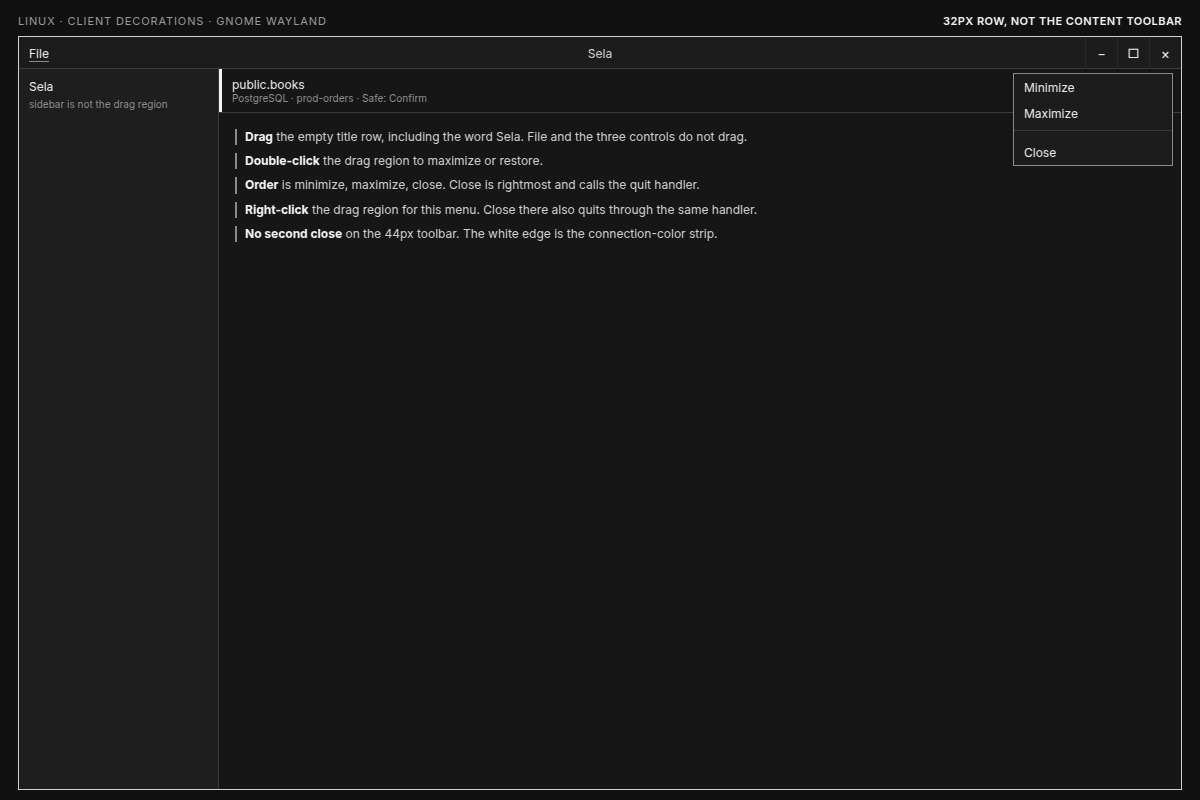
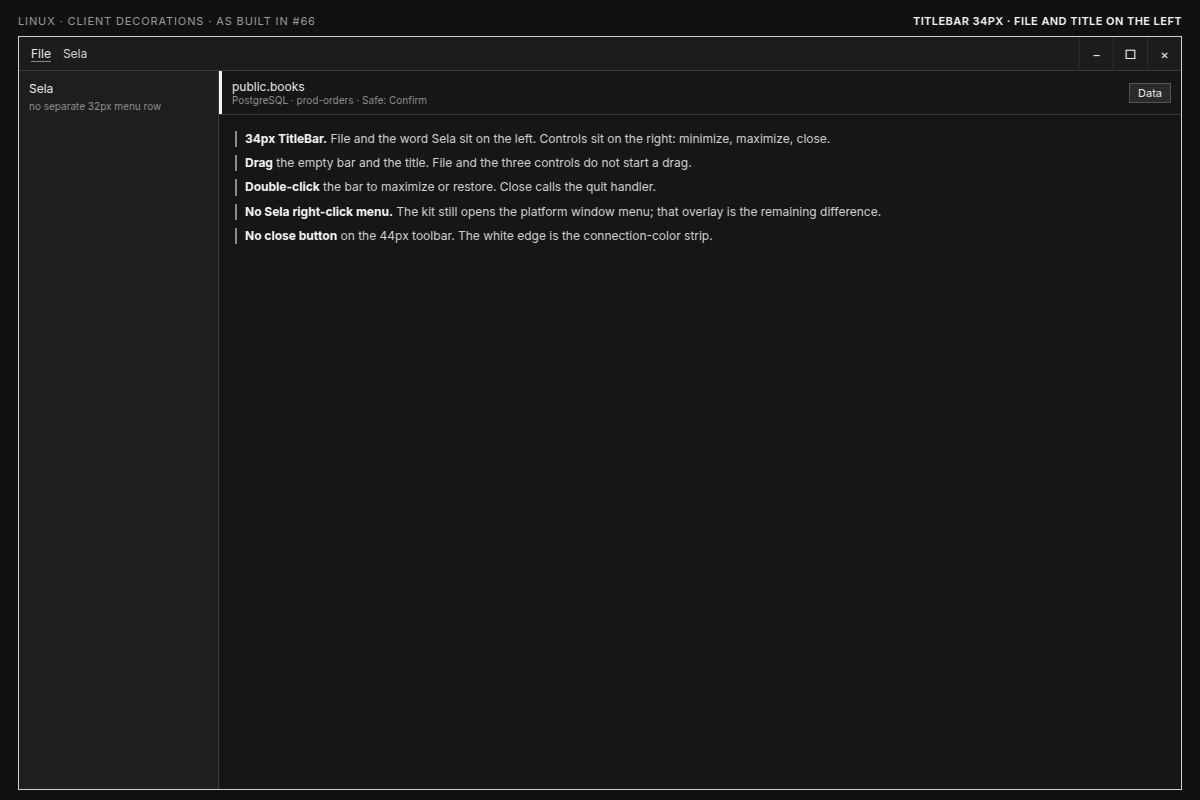
Fold the PM decisions into the v0.2 UX specs.
Editing is primary-key only, Esc only cancels the open cell, and the Linux title bar matches the TitleBar #66 already builds.

diff --git a/docs/design/ux/images/titlebar-linux.html b/docs/design/ux/images/titlebar-linux.html
@@ -18,19 +18,19 @@ body {
   background: #161616; border: 1px solid #d0d0d0;
 }
 .tbar {
-  height: 32px; flex: none; display: grid; grid-template-columns: 1fr auto 1fr;
-  align-items: center; background: #1c1c1c; border-bottom: 1px solid #3a3a3a;
-  position: relative;
+  height: 34px; flex: none; display: flex; align-items: stretch;
+  background: #1c1c1c; border-bottom: 1px solid #3a3a3a;
+  padding-left: 12px;
 }
-.file { justify-self: start; padding-left: 10px; font-size: 12px; }
+.lead { display: flex; align-items: center; gap: 12px; flex: 1; min-width: 0; }
+.file { font-size: 12px; }
 .file u { text-decoration: none; border-bottom: 1px solid #888; }
 .title { font-size: 12px; color: #d0d0d0; }
-.ctrls { justify-self: end; display: flex; height: 32px; }
+.ctrls { display: flex; height: 34px; flex: none; }
 .ctrls span {
-  width: 32px; display: flex; align-items: center; justify-content: center;
+  width: 34px; display: flex; align-items: center; justify-content: center;
   font-size: 13px; color: #e8e8e8; border-left: 1px solid #2a2a2a;
 }
-.ctrls span.close { font-size: 14px; }
 .body { flex: 1; min-height: 0; display: flex; }
 .side { width: 200px; flex: none; background: #1e1e1e; border-right: 1px solid #3a3a3a; padding: 10px; font-size: 12px; }
 .side .dim { color: #8d8d8d; font-size: 10px; margin-top: 4px; }
@@ -47,31 +47,21 @@ body {
 .callouts { flex: 1; display: flex; flex-direction: column; gap: 8px; padding: 16px; font-size: 12px; color: #cfcfcf; }
 .callouts div { border-left: 2px solid #8a8a8a; padding-left: 8px; line-height: 1.35; }
 .callouts b { color: #f2f2f2; }
-.menu {
-  position: absolute; right: 8px; top: 36px; width: 160px; background: #1c1c1c; border: 1px solid #8a8a8a;
-  font-size: 12px; z-index: 2;
-}
-.menu div { height: 26px; display: flex; align-items: center; padding: 0 10px; }
-.menu .sep { height: 9px; border-top: 1px solid #3a3a3a; margin-top: 4px; }
 </style></head>
 <body>
-  <div class="kicker"><span>Linux · client decorations · GNOME Wayland</span><b>32px row, not the content toolbar</b></div>
+  <div class="kicker"><span>Linux · client decorations · as built in #66</span><b>TitleBar 34px · File and title on the left</b></div>
   <div class="win">
     <div class="tbar">
-      <div class="file"><u>File</u></div>
-      <div class="title">Sela</div>
-      <div class="ctrls"><span>−</span><span>□</span><span class="close">×</span></div>
-      <div class="menu">
-        <div>Minimize</div>
-        <div>Maximize</div>
-        <div class="sep"></div>
-        <div>Close</div>
+      <div class="lead">
+        <div class="file"><u>File</u></div>
+        <div class="title">Sela</div>
       </div>
+      <div class="ctrls"><span>−</span><span>□</span><span>×</span></div>
     </div>
     <div class="body">
       <div class="side">
         <div>Sela</div>
-        <div class="dim">sidebar is not the drag region</div>
+        <div class="dim">no separate 32px menu row</div>
       </div>
       <div class="main">
         <div class="toolbar">
@@ -85,11 +75,11 @@ body {
           <span class="btn">Data</span>
         </div>
         <div class="callouts">
-          <div><b>Drag</b> the empty title row, including the word Sela. File and the three controls do not drag.</div>
-          <div><b>Double-click</b> the drag region to maximize or restore.</div>
-          <div><b>Order</b> is minimize, maximize, close. Close is rightmost and calls the quit handler.</div>
-          <div><b>Right-click</b> the drag region for this menu. Close there also quits through the same handler.</div>
-          <div><b>No second close</b> on the 44px toolbar. The white edge is the connection-color strip.</div>
+          <div><b>34px TitleBar.</b> File and the word Sela sit on the left. Controls sit on the right: minimize, maximize, close.</div>
+          <div><b>Drag</b> the empty bar and the title. File and the three controls do not start a drag.</div>
+          <div><b>Double-click</b> the bar to maximize or restore. Close calls the quit handler.</div>
+          <div><b>No Sela right-click menu.</b> The kit still opens the platform window menu; that overlay is the remaining difference.</div>
+          <div><b>No close button</b> on the 44px toolbar. The white edge is the connection-color strip.</div>
         </div>
       </div>
     </div>

diff --git a/docs/design/ux/01-main-window.md b/docs/design/ux/01-main-window.md
@@ -8,11 +8,12 @@ This spec matches the window in `crates/sela-app/src/ui/workspace/` and the shor
 
 ## Regions
 
-Default window size is 1180×760, minimum 880×560 (`ui/mod.rs`). Where the platform draws a server-side title bar, it says “Sela” and the workspace does not draw one. On client-side decorations the workspace draws the bar in [Client-side title bar](#client-side-title-bar).
+Default window size is 1180×760, minimum 880×560 (`ui/mod.rs`). Where the platform draws a server-side title bar, it says “Sela” and the workspace does not draw one. On client-side decorations the workspace draws gpui-component’s `TitleBar`. See [Client-side title bar](#client-side-title-bar).
 
 | Region | Size | Where it is set today | Resize |
 | --- | --- | --- | --- |
-| Menu / title row | 32px, Linux and Windows | `workspace/mod.rs` `menu_bar_row`, `h(px(32.))` | Fixed. Window controls only when decorations are client-side. See [Client-side title bar](#client-side-title-bar). |
+| SSD menu row | 32px, Linux and Windows, server decorations only | `workspace/mod.rs` `menu_bar_row`, `h(px(32.))` | Fixed. File menu only. Not drawn when the client title bar is shown. |
+| Client title bar | 34px | gpui-component `TitleBar` (`TITLE_BAR_HEIGHT`) | Fixed. Only when `Decorations::Client`. It replaces the 32px menu row. See [Client-side title bar](#client-side-title-bar). |
 | Sidebar | 292px default | `sidebar.rs`, `w(px(292.))`, `flex_shrink_0` | Drag the right edge. Min 200, max 480. Double-click returns to 292. |
 | Tab bar | 28px | `tabs.rs` `TabBar`, no explicit height | Fixed. |
 | Toolbar | 44px | `content.rs` `toolbar`, `h(px(44.))` | Fixed. Do not grow it. A later density pass may take it to 32px. Not part of M1-3. |
@@ -195,13 +196,13 @@ Filter and editor chords are in the other specs. They must be context-scoped so 
 
 ## Quit and window lifecycle
 
-The window always has a close control. Ask for server-side decorations (`WindowDecorations::Server` in `ui/mod.rs`). When `window.window_decorations()` is server-side, the platform draws the close control and the workspace does not. When it is client-side, the workspace draws the [client-side title bar](#client-side-title-bar). That bar's close control is the one close control. Do not also put a close button on the 44px content toolbar or on the empty-state strip. The close control shipped on that toolbar in #31 is replaced by the title bar, not kept beside it.
+The window always has a close control. Ask for server-side decorations (`WindowDecorations::Server` in `ui/mod.rs`). When `window.window_decorations()` is server-side, the platform draws the close control and the workspace does not. When it is client-side, the workspace draws the [client-side title bar](#client-side-title-bar). That bar's close control is the one close control. Do not put a close button on the 44px content toolbar or on the empty-state strip. #66 removes the toolbar × and `client_close_bar`.
 
-The close control is not a Quit button. Do not put the word Quit on the title bar or the toolbar. It calls `Workspace::request_quit`, the same handler as `secondary-q`.
+The close control is not a Quit button. Do not put the word Quit on the title bar or the toolbar. On Linux it calls `Workspace::request_quit`, the same handler as `secondary-q`.
 
 `secondary-q` quits. That is Command+Q on macOS and Control+Q on Linux and Windows. The binding is global: it works from the SQL editor and from dialogs. On Windows, Alt+F4 is the OS close and uses the same quit path. Register it once, with `bind_secondary`, not as a second `cmd-q` / `ctrl-q` pair.
 
-On macOS the app menu item is `Quit Sela`, last, after a separator. On Linux and Windows the File menu item is `Quit`, last, after a separator, with a Ctrl+Q hint. GPUI does not draw a native OS menu bar on Linux. The in-window File menu in the 32px row is the one those sessions show (`menu_bar_row` in `workspace/mod.rs`). On client-side decorations that same row is the title bar below.
+On macOS the app menu item is `Quit Sela`, last, after a separator. On Linux and Windows the File menu item is `Quit`, last, after a separator, with a Ctrl+Q hint. GPUI does not draw a native OS menu bar on Linux. Under server-side decorations the in-window File menu is the 32px `menu_bar_row`. Under client-side decorations that row is not drawn; the File menu is a child of `TitleBar`.
 
 Closing the last window quits on Linux and Windows. On macOS the app stays running after the last window closes, and Command+Q quits. That is gpui-pre 0.3.12 `QuitMode::Default` (`Explicit` on macOS, `LastWindowClosed` elsewhere). `ui/mod.rs` does not call `set_quit_mode`. Keep that default. The shortcut, the menu item, Alt+F4, and the close control go through one quit handler. Closing the window on macOS is not that handler.
 
@@ -223,36 +224,35 @@ M2-5, with the dialog fields in [05-connection-dialog.md](./05-connection-dialog
 
 Groups are one level. The sidebar keeps file order. Connections with an empty group stay a flat list at the top, in the order they have today. Each non-empty group is a parent row after that, in the order its first member appears in the file. Members stay in file order under the parent. A group row shows the group name and a disclosure triangle. It is not a connection: clicking it expands or collapses, and it does not connect. Empty groups are not shown. There is no nested group.
 
-Duplicate is a ghost `xsmall` button between Edit and Delete, enabled when Edit is enabled. No shortcut (`secondary-d` is duplicate-row on the grid). It saves a new connection immediately and does not connect and does not open the dialog. The name is `{name} copy`, then `{name} copy 2`, and so on. The new id is new. Engine, host, port, user, database, file, TLS, `record_history`, color, label, group, and safe mode are copied. When the source password was read from the keychain, write that secret under the new id. When it was not, the copy has no password. Status: `Duplicated {name}.`
+Duplicate is a ghost `xsmall` button between Edit and Delete, enabled when Edit is enabled. No shortcut (`secondary-d` is duplicate-row on the grid). It saves a new connection immediately and does not connect and does not open the dialog. The name is `{name} copy`, then `{name} copy 2`, and so on. The new id is new. Engine, host, port, user, database, file, TLS, `record_history`, color, label, group, and safe mode are copied. The password is not copied, and no keychain item is written for the new id. Status: `Duplicated {name}. Type the password to connect.`
 
 ## Client-side title bar
 
-Linux only, and only when `window.window_decorations()` is client-side. That is the GNOME Wayland case in #58: the window asks for server decorations, GNOME does not draw them, and GPUI reports client decorations. Windows, macOS, X11, and any compositor that actually draws server decorations stay as they are. Do not render these controls there. The 32px row on Windows with server decorations stays a menu bar: File on the left, no drag-to-move, no window buttons.
+This is what #66 builds. Show it only when `window.window_decorations()` is `Decorations::Client`, which is `should_show_client_title_bar` in `ui/decorations.rs`. The window still asks for `WindowDecorations::Server`. Windows, macOS, X11, and any compositor that draws server decorations stay on the native frame. On those Linux and Windows sessions the 32px `menu_bar_row` stays a File menu and is not a title bar.
 
-![Linux client title bar: File, the title, minimize, maximize, close](images/titlebar-linux.png)
+On client decorations, do not draw that 32px row. `client_title_bar` renders gpui-component `TitleBar` instead, full window width, above the sidebar and the content column. Height is the kit constant, 34px (`TITLE_BAR_HEIGHT`). It is not merged into the 44px content toolbar, and it is not a second strip under the menu row. The content toolbar is table actions and is absent when there are no tabs. The title bar is still there in that empty state, which is why the empty column has no close strip.
 
-The row is the existing `menu_bar_row`, 32px, full window width, above the sidebar and the content column. Do not merge it into the 44px content toolbar, and do not add a second strip. The content toolbar is table actions and is absent when there are no tabs. The title bar has to exist in that empty state too, which is why the empty column no longer grows its own close strip.
+![Linux client title bar: File and Sela on the left, minimize, maximize, close on the right](images/titlebar-linux.png)
 
-| Piece | Placement |
+| Piece | As built |
 | --- | --- |
-| File menu | Left, as today. |
-| Title | `Sela`, centered in the row. `text.secondary`. |
-| Window controls | Right. Order is minimize, then maximize, then close. Close is the rightmost control. This is the GNOME default (`:minimize,maximize,close`). |
-| Each control | 32×32 hit target, ghost, icon only. Tooltips `Minimize`, `Maximize`, `Restore`, `Close`. |
+| File menu | A child of `TitleBar`, on the leading side, Linux and Windows only (`AppMenuBar`). macOS keeps the native app menu and passes no menu child. |
+| Title | The text `Sela`, the next child, in the same leading group. Not centered. |
+| Window controls | Kit `WindowControls`, on the trailing side. Order is minimize, then maximize or restore, then close. Close is the outermost control. Each hit target is 34×34. |
+| Drag | The bar is `WindowControlArea::Drag`. A left-button move calls `start_window_move` unless the press called `prevent_default`. The File menu and the window controls do that, so clicking them does not drag. The title text does drag. |
+| Double-click | On Linux, double-click on the bar calls `zoom_window` (maximize or restore). |
 
-Maximize shows `Restore` while the window is maximized. The icons are a minus, a square, and `×`. None of them is labeled Quit.
+Minimize calls `minimize_window`. Maximize and restore call `zoom_window`. None of the controls is labeled Quit.
 
-**Drag.** Empty space in the row, including the title text, moves the window (`start_window_move`) after a few pixels of left-button drag. A left click that does not drag only focuses the window. These are not draggable: the File menu, an open menu, and the three window controls. A right-click does not start a move.
+**Close.** `TitleBar::on_close_window` is set to `Workspace::request_quit`. In gpui-component 0.10 that callback is stored only on Linux. A running query still confirms, as in the quit section. Minimize and maximize do not quit.
 
-**Double-click.** Double-click on the drag region toggles maximize and restore (`titlebar_double_click` or the kit equivalent). Double-click on the File menu or on a window control does not.
+**Which buttons appear.** The order does not follow GNOME `button-layout`. Close is always drawn. Minimize and maximize are drawn only when `window.window_controls()` says the compositor supports them, so a tiling session can omit one. When all three are shown, the order is the GNOME default: minimize, maximize, close, with close outermost.
 
-**Right-click.** On the drag region, a menu: `Minimize`, `Maximize` or `Restore`, a separator, `Close`. `Close` calls `request_quit`. The File menu and the window buttons do not open this menu. Ship the menu with the title bar. If a right-click cannot be separated from the drag gesture, omit the menu and do not make the buttons start a drag. That omission is the only fallback.
+**Edges.** Resize and the client-side shadow or border are not Sela code. gpui-component's `WindowBorder` already wraps the root: under `Decorations::Client` it calls `set_client_inset` and `start_window_resize`. Under server decorations that wrap is a no-op. Do not add a second border.
 
-**Close.** The close control and the menu's `Close` call `Workspace::request_quit`. They do not call `remove_window` directly. Minimize and maximize do not quit. A running query still confirms, as in the quit section.
+**Right-click.** There is no Sela menu on this bar. Do not add Minimize / Maximize / Close as a context menu.
 
-**Edges.** Client decorations keep edge resize. Draw a 1px `border.divider` around the window content so the edge is visible. Do not add a drop shadow on top of whatever the compositor already draws.
-
-gpui-component `TitleBar` is the right starting point when it can host the File menu, the drag region, and a close control that calls `request_quit`. If its close button only removes the window, do not use that button. Composing the existing 32px row is the fallback, and it is the layout either way.
+Remaining difference from #66: the kit `TitleBar` still covers the drag region with a right-click handler that calls `window.show_window_menu`. That is the platform window menu, not a menu this spec adds. Product decision is no title-bar right-click menu. Taking that overlay out is a follow-up on top of #66. Until then, a right-click on the drag region can still open the platform menu.
 
 ## Status text
 
@@ -287,8 +287,8 @@ gpui-component `TitleBar` is the right starting point when it can host the File 
 - Banner: keep `error_banner`. Add `max_h` around 60px and vertical scroll. Append SQLSTATE from `DbError` instead of only `Display`, which is the message alone (`error.rs`).
 - Load more footer: a sibling under the `DataTable` inside `results_area`, visible only when `GridSource::Sql` and `truncated`. It is not a row in `ResultWindow`.
 - Do not turn on `TableState::sortable(true)`. Header sort is specified in the filter spec and is server-side.
-- Quit goes through one handler (`Workspace::request_quit`), as in [Quit and window lifecycle](#quit-and-window-lifecycle). Cancel queries synchronously, then `cx.quit()`; pool close and history flush run from `on_app_quit` within `SHUTDOWN_TIMEOUT` (200 ms). The client title bar's close control uses that handler. Remove `client_close_bar` and the toolbar `window-close` button once the title bar is the close control.
-- Decide client decorations from `window.window_decorations()`, not from the `WindowDecorations::Server` request. The request stays.
+- Quit goes through one handler (`Workspace::request_quit`), as in [Quit and window lifecycle](#quit-and-window-lifecycle). Cancel queries synchronously, then `cx.quit()`; pool close and history flush run from `on_app_quit` within `SHUTDOWN_TIMEOUT` (200 ms). #66 wires `TitleBar::on_close_window` to that handler and removes `client_close_bar` and the toolbar `window-close` button.
+- Show the client title bar from `should_show_client_title_bar(window.window_decorations())`, not from the `WindowDecorations::Server` request. The request stays.
 
 ## Decisions
 
@@ -296,11 +296,9 @@ gpui-component `TitleBar` is the right starting point when it can host the File 
 2. **Keep both error surfaces.** The banner always shows the full message. The gutter marker and underline are drawn only when the engine reports a position.
 3. **M1-9 is done** (#13, `pg_decode.rs`). Text fallbacks are normal cells, as in the decode-error section. Do not edit `roadmap.md` for that status here. Engineering updates the roadmap, PRD, and SPECS status rows in the M1-3 pull request.
 4. **Quit cleanup uses GPUI’s `SHUTDOWN_TIMEOUT` (200 ms)** via `on_app_quit`, not a separate ~2 s wait before `cx.quit()`.
-5. **Client decorations use the 32px menu row as the title bar.** Window controls are not merged into the 44px toolbar. Close goes through `request_quit`.
+5. **Client decorations use gpui-component `TitleBar` (34px), as in #66.** The 32px menu row is the server-decoration File menu only. Close goes through `request_quit`. Button order is the kit's: minimize, maximize, close, close outermost. Do not read GNOME `button-layout`.
+6. **No Sela right-click menu on the title bar.** The kit still calls `show_window_menu` on right-click. That overlay is the remaining difference, noted in [Client-side title bar](#client-side-title-bar).
 
 ## Open questions
 
-None open for quit. See [Quit and window lifecycle](#quit-and-window-lifecycle) for the shipped confirm.
-
-1. The title-bar control order is fixed: minimize, maximize, close, on the right. The alternative is to read GNOME `org.gnome.desktop.wm.preferences button-layout` and follow that, including a left-side layout. This spec does not read the setting.
-2. The right-click menu ships in the same work as the title bar, and is omitted only when the gesture cannot be split from dragging. Confirm that omission is acceptable rather than blocking the bar.
+None. The quit confirm is the shipped one in [Quit and window lifecycle](#quit-and-window-lifecycle).

diff --git a/docs/design/ux/07-grid-editing.md b/docs/design/ux/07-grid-editing.md
@@ -10,15 +10,15 @@ Editing is an overlay on the table Data grid. It does not write to the database 
 
 | Surface | Editing |
 | --- | --- |
-| Table Data, one primary key | Yes. |
-| Table Data, no primary key, exactly one unique NOT NULL constraint | Yes. That constraint is the row key. |
-| Table Data, no primary key and no such constraint | Read-only. See [Read-only](#read-only). |
-| Table Data, no primary key and two or more unique NOT NULL constraints | Read-only. Sela does not guess which constraint is the key. |
+| Table Data, with a primary key | Yes. A composite primary key is one key. Every key column is part of the later `WHERE`. |
+| Table Data, no primary key | Read-only. See [Read-only](#read-only). A unique NOT NULL constraint is not a key in v0.2. |
 | View | Read-only. |
 | Structure pane | No overlay. |
 | SQL result tab | Read-only. `Enter` does not open an editor. |
 
-The key is composite when the primary key (or the single unique constraint) has several columns. Every key column is part of the later `WHERE`. Generated and identity columns are not editable: `serial`, `IDENTITY`, `GENERATED`, `AUTO_INCREMENT`, and a SQLite `INTEGER PRIMARY KEY` rowid alias. They stay on screen. The tooltip is `Filled on commit.`
+v0.2 matches the core in #65: `ChangeSet` rejects a table with no primary key (`ChangeError::NoPrimaryKey`). Using a unique NOT NULL constraint as the row key is an M2 follow-up on the [roadmap backlog](../roadmap.md).
+
+Generated and identity columns are not editable: `serial`, `IDENTITY`, `GENERATED`, `AUTO_INCREMENT`, and a SQLite `INTEGER PRIMARY KEY` rowid alias. They stay on screen. The tooltip is `Filled on commit.`
 
 A decode-error cell and a `ColumnKind::Bytes` cell are not editable even on an editable table. `Enter` leaves them alone. Status: `This cell is read-only.` Blob status adds `Use SQL to change it.` `ColumnKind::Other` (arrays and other text fallbacks) is read-only the same way. `Space` still opens inspect, as in [01-main-window.md](./01-main-window.md).
 
@@ -80,7 +80,7 @@ These keys are for the open editor. They do not commit to the database. The chan
 | `secondary-z` | Undo typing inside the field. | Same. |
 | `secondary-shift-z` | Left to the field. On macOS that is redo. It does not discard. | Same. |
 
-`Escape` does not discard the pending set. Discard is `secondary-shift-z` when the editor is closed. US-05 names Esc as discard; the split is recorded under [Open questions](#open-questions). The default in this spec is the split above, so Esc can keep closing inspect, menus, and the quit dialog.
+`Escape` does not discard the pending set. Discard is `secondary-shift-z` when the editor is closed, and the Discard button on the pending bar. Both confirm. US-05 matches this split.
 
 Accepting a value equal to the server value removes that cell from the row's change. The triangle goes away. If the row has no remaining changes, the row mark goes away too.
 
@@ -119,8 +119,7 @@ The Data pane shows the first reason that applies:
 | --- | --- |
 | Safe mode is Read-only | `Read-only · safe mode on this connection.` |
 | View | `Read-only · views are read-only.` |
-| No usable key | `Read-only · no primary key or unique NOT NULL column.` |
-| Several unique keys and no primary key | `Read-only · more than one unique key and no primary key.` |
+| No primary key | `Read-only · this table has no primary key.` |
 
 `Enter`, double-click, Insert, Duplicate, and Delete do nothing. Status repeats the same sentence. `Space` still inspects. Filter and sort still run.
 
@@ -166,18 +165,17 @@ Grid focus context, editor closed. Full chords are also in [README.md](./README.
 - `Enter` to edit is the grid context. The cell editor's context does not include `RunQuery`.
 - The gutter is a 16px sticky column painted with the delegate, excluded from copy and from horizontal scroll of the data columns. If `DataTable` cannot pin it, paint the glyph in the first cell's leading padding and still exclude it from `cell_text`.
 - Generated-column detection uses the structure default and type name. The exact `INSERT` omission list belongs to M2-2. This file only decides which cells look unset and which ones block Commit.
-- A table with a primary key uses that key even if unique constraints also exist.
+- Editing requires a primary key, the same rule as `ChangeSet::try_new` in #65. Do not treat a unique constraint as a key.
 
 ## Decisions
 
-1. A single unique NOT NULL constraint is a key when there is no primary key. Two of them, and no primary key, stays read-only. US-05 says "no PK"; the SPECS `RowKey` is the wider rule, with the ambiguous case refused.
-2. `Escape` cancels the open cell editor or popover only. It does not discard the `ChangeSet`.
-3. Inserted and duplicated rows are marked on the row (wash and gutter). Per-cell triangles are only for edits to a row that already exists on the server.
-4. Deleting an inserted row drops it. Deleting a server row keeps it visible and strikethrough until Commit or Discard.
-5. NULL is an explicit control. An empty text field is `''`.
+1. v0.2 edits only a table with a primary key. No primary key is read-only, and the strip says why. A unique NOT NULL key is backlog ([roadmap.md](../roadmap.md)).
+2. `Escape` cancels the open cell editor or popover only. It does not discard the `ChangeSet`. Discard is `secondary-shift-z` (editor closed) and the Discard button, and it confirms.
+3. Duplicate leaves primary-key cells unset so an identity column can fill them. A non-generated key stays empty until the user types it. Commit stays disabled until those cells are set.
+4. Inserted and duplicated rows are marked on the row (wash and gutter). Per-cell triangles are only for edits to a row that already exists on the server.
+5. Deleting an inserted row drops it. Deleting a server row keeps it visible and strikethrough until Commit or Discard.
+6. NULL is an explicit control. An empty text field is `''`.
 
 ## Open questions
 
-1. Confirm decision 1. The alternative is primary key only, which matches the US-05 wording and would make unique-only tables read-only.
-2. Confirm decision 2. The alternative is US-05 read literally: `Escape` with the editor closed discards the whole pending set. That fights inspect, menus, and the quit dialog, which already use `Escape` to dismiss.
-3. Duplicate leaves primary-key cells unset so an identity column can fill them. Confirm that a non-generated key the user must retype is the right default, rather than copying the key and letting the database reject the duplicate.
+None.

diff --git a/docs/design/ux/08-preview-commit.md b/docs/design/ux/08-preview-commit.md
@@ -43,7 +43,7 @@ The footer repeats `Discard` (ghost) and `Commit` (primary). They do the same th
 
 ## Commit
 
-`Commit` or `secondary-s` runs the pending statements in one transaction: `BEGIN`, deletes, updates, inserts, `COMMIT`. Identifiers are quoted. Values are bound. The `WHERE` is the key columns only.
+`Commit` or `secondary-s` runs the pending statements in one transaction: `BEGIN`, deletes, updates, inserts, `COMMIT`. Identifiers are quoted. Values are bound. The `WHERE` is the primary-key columns only.
 
 `secondary-s` while the cell editor is open accepts the cell first, then commits, except when that accept fails validation: the editor stays open and nothing is sent. `secondary-s` in the SQL editor does nothing. It is not a document save.
 
@@ -117,10 +117,10 @@ Until this milestone ships, quit still confirms only while a query is running. T
 
 1. The pending count lives on the 26px bar, not a second time on the status bar.
 2. The sheet shows placeholders plus bound values. Execution stays on the bound path.
-3. `WHERE` is the key columns only. Old values of other columns are not part of the predicate. See [Open questions](#open-questions).
+3. `WHERE` is the primary-key columns only, matching #65. Old values of other columns are not part of the predicate. An optimistic check on those values is [#68](https://github.com/nesso99/sela/issues/68), not v0.2.
 4. A failed commit keeps every pending edit and does not reload.
-5. Discard, close-tab, and quit-with-edits reuse the quit dialog's button rules. Cancel is primary. The destructive button is not.
+5. Discard, close-tab, and quit-with-edits reuse the quit dialog's button rules. Cancel is primary. The destructive button is not. Discard is both `secondary-shift-z` and the Discard button.
 
 ## Open questions
 
-1. SPECS calls an optimistic `WHERE` on the old non-key values optional. This spec leaves it out of v0.2. Confirm that a concurrent edit to a column the user did not touch is not a conflict.
+None.

diff --git a/docs/design/ux/06-theme-tokens.md b/docs/design/ux/06-theme-tokens.md
@@ -288,7 +288,8 @@ These stay fixed at every step. Text inside them may grow until the largest step
 | status.height | 28 | `text_xs` at the top step is 16. |
 | tab.height | 28 | The strip does not grow. |
 | editor.header, history header | 28 | The header chrome. |
-| Menu / title row | 32 | [01-main-window.md](./01-main-window.md#client-side-title-bar). |
+| SSD menu row | 32 | Linux and Windows when the OS draws the frame. [01-main-window.md](./01-main-window.md#client-side-title-bar). |
+| Client title bar | 34 | gpui-component `TitleBar`. Does not scale. |
 | editor.band | 176 | The splitter default, not a font metric. Fewer lines fit when the line height grows. |
 | sidebar.width, dialog.width, window size | unchanged | Layout, not type. |
 | space.1–space.6, radius, border, focus | unchanged | The 4px scale. |
@@ -348,8 +349,8 @@ The theme menu has no shortcut. `secondary-,` stays reserved for a future settin
 1. The status menu offers Light, Dark, and System when `Window::appearance()` is available. System follows the OS through `Theme::sync_system_appearance`. If that API is missing on a platform, the menu is Light and Dark only. Dark is the default.
 2. Light-theme SQL comments stay `#525252`.
 3. Dark chrome (`#171717` on a `#0A0A0A` canvas) with a 13px UI font is the density. Do not keep the kit at 16px and only shrink the grid and the editor. `theme.rs` already ships these values.
-4. Font size is one UI step, 11–18, default 13. Mono is `max(11, ui - 1)`. Chrome heights in this file stay fixed. The step is written to both theme configs.
+4. Font size is one UI step, 11–18, default 13. Mono is `max(11, ui - 1)`. Chrome heights in this file stay fixed. The step is written to both theme configs. Separate UI and editor sizes are not in this setting.
 
 ## Open questions
 
-1. Issue #39 asks whether the UI and the grid/editor should zoom separately. This spec uses one step so the 13:12 relationship holds. Split controls are the alternative.
+None.

diff --git a/docs/design/PRD.md b/docs/design/PRD.md
@@ -115,7 +115,7 @@ Developers work with databases every day and need a tool that opens instantly, s
 | US-02 | I connect through an SSH bastion | Password, private key (+ passphrase), ssh-agent, `~/.ssh/config`; known_hosts checked; SSH errors distinct from DB errors | Not started |
 | US-03 | I open many tables and queries in tabs | Cmd+T new query, Cmd+W close, Cmd+1..9 switch; tab remembers its connection; dirty close prompts when pending edits exist | Done (M1-1); dirty prompt is M2 |
 | US-04 | I filter and sort without writing SQL | Filter bar: column + op (`=`, `!=`, `LIKE`, `IN`, `IS NULL`, `>`, `<`) + value, AND combine; header click to sort; generated SQL visible | Done (M1-3) |
-| US-05 | I edit data on the grid | Double-click or Enter to edit; edited cells highlighted; insert/delete/duplicate rows; Cmd+S commits in one transaction; Esc / Cmd+Shift+Z discard; no PK → read-only with reason | Not started |
+| US-05 | I edit data on the grid | Double-click or Enter to edit; edited cells highlighted; insert/delete/duplicate rows; Cmd+S commits in one transaction; Esc cancels the open cell editor only; Cmd+Shift+Z and Discard drop pending edits after confirm; no primary key → read-only with a reason | Not started |
 | US-06 | I preview SQL before commit | Preview lists exact statements with bound values; commit failure rolls back and keeps pending changes | Not started |
 | US-07 | As on-call, I do not accidentally break production | Safe mode Off / Confirm writes / Read-only; UPDATE/DELETE without WHERE always warns; connection color + name on toolbar | Not started |
 | US-08 | I write SQL quickly | Syntax highlight; autocomplete keywords, schema, table, columns (after `alias.`); Cmd+Enter runs statement at cursor or selection; multi-statement file | Partial (editor + multi-run; no autocomplete / no SQL grammar yet) |

diff --git a/docs/design/ux/05-connection-dialog.md b/docs/design/ux/05-connection-dialog.md
@@ -344,9 +344,10 @@ Focus order is the field order above, then Cancel, Test, Save, Save & connect. T
 3. No client-key passphrase in this dialog. It is backlog. The key file is an unencrypted PEM.
 4. The JSON names are `ca_path`, `client_cert_path`, and `client_key_path`.
 5. No separate certificate hostname field. Verify full checks the Host field. A hostname override is backlog.
-6. Color is a named swatch, not a hex the user picks. Red is the production mark.
+6. Color is a named swatch, not a hex the user picks. Red is the production tag. On a new connection it defaults Safe mode to Confirm writes until the user touches that select ([09-safe-mode.md](./09-safe-mode.md)).
 7. Import fills the form and clears the URL field. It does not connect.
+8. Duplicate does not copy the password. The new connection has no keychain item until the user saves one. See [01-main-window.md](./01-main-window.md#connection-color-and-groups).
 
 ## Open questions
 
-1. Duplicate copies the keychain password onto the new id when the source secret was readable. The alternative is to leave the copy without a password and make the user type it. This spec copies it. The sidebar behavior is in [01-main-window.md](./01-main-window.md#connection-color-and-groups).
+None.

diff --git a/CHANGELOG.md b/CHANGELOG.md
@@ -9,7 +9,7 @@ and this project adheres to [Semantic Versioning](https://semver.org/spec/v2.0.0
 
 ### Added
 
-- UX specs for v0.2 safe editing: grid editing, preview and commit, safe mode ([docs/design/ux/07-grid-editing.md](docs/design/ux/07-grid-editing.md), [08](docs/design/ux/08-preview-commit.md), [09](docs/design/ux/09-safe-mode.md)), connection color, groups, duplicate, and import URL, font size (#39), and the Linux client-side title bar (#58). Indexed in [docs/design/ux/README.md](docs/design/ux/README.md).
+- UX specs for v0.2 safe editing: grid editing, preview and commit, safe mode ([docs/design/ux/07-grid-editing.md](docs/design/ux/07-grid-editing.md), [08](docs/design/ux/08-preview-commit.md), [09](docs/design/ux/09-safe-mode.md)), connection color, groups, duplicate, and import URL, font size (#39), and the Linux client-side title bar. Editing is primary-key only (a unique NOT NULL key is an M2 follow-up on the roadmap). The title bar matches gpui-component `TitleBar` as built in #66 (34px, File menu inside the bar, close through `request_quit`). Indexed in [docs/design/ux/README.md](docs/design/ux/README.md).
 
 ### Fixed
 

diff --git a/docs/design/ux/09-safe-mode.md b/docs/design/ux/09-safe-mode.md
@@ -105,11 +105,10 @@ The dialogs take `Enter` and `Escape` as Cancel. There is no shortcut that confi
 
 1. The three levels are Off, Confirm writes, and Read-only. Off still warns on `UPDATE` / `DELETE` without `WHERE`.
 2. The level is stored per connection and shown on the toolbar engine line. The status bar does not repeat it.
-3. Red sets the default to Confirm writes only until the user touches the Safe mode select.
+3. Red is the production tag. It is the only one. On a new connection it sets Confirm writes until the user touches the Safe mode select, and then it stops driving the level.
 4. Unparseable SQL fails closed.
-5. A tautological `WHERE` is out of scope. Presence of the clause is the check.
+5. Warn only when a `WHERE` clause is missing. `WHERE 1=1` does not warn.
 
 ## Open questions
 
-1. Confirm that the Red swatch is the only production tag, and that it stops driving Safe mode once the user has touched the select.
-2. Confirm that `WHERE 1=1` does not warn. The alternative is a later predicate check, which this milestone does not include.
+None.

diff --git a/docs/design/ux/README.md b/docs/design/ux/README.md
@@ -186,4 +186,4 @@ Recorded from review. The screen specs repeat the items that change their behavi
 11. No `sqlformat` in M1-4. Format is backlog. `secondary-shift-f` is reserved and is not an M1-4 binding. The shortcut tables mark it reserved.
 12. Grid editing, preview, and safe mode are [07](./07-grid-editing.md), [08](./08-preview-commit.md), and [09](./09-safe-mode.md). `secondary-s`, `secondary-shift-p`, and `secondary-shift-z` are those actions.
 13. Font size is one UI step in [06](./06-theme-tokens.md#font-size). The chrome heights in that file stay fixed.
-14. Linux client decorations use the 32px menu row as the title bar ([01](./01-main-window.md#client-side-title-bar)). The content toolbar does not also draw a close button.
+14. Linux client decorations use gpui-component `TitleBar` at 34px ([01](./01-main-window.md#client-side-title-bar)), the bar #66 builds. The content toolbar does not also draw a close button.

diff --git a/docs/design/roadmap.md b/docs/design/roadmap.md
@@ -70,6 +70,7 @@ Also: rename Birch → Sela (#1). License + cargo-deny (#14).
 - Optional OR combine / raw-WHERE mode for filters
 - Remaining Postgres `<TYPE>` placeholders (tsquery, polygon, composites, …)
 - TLS client-key passphrase. rustls needs an unencrypted PEM today. A passphrase, if added later, goes to the OS keychain and never into `connections.json`.
+- M2 follow-up: edit a table that has no primary key but has a unique NOT NULL key. v0.2 is primary-key only (`ChangeError::NoPrimaryKey`, #65). UX: [ux/07-grid-editing.md](./ux/07-grid-editing.md).
 
 ---
 
